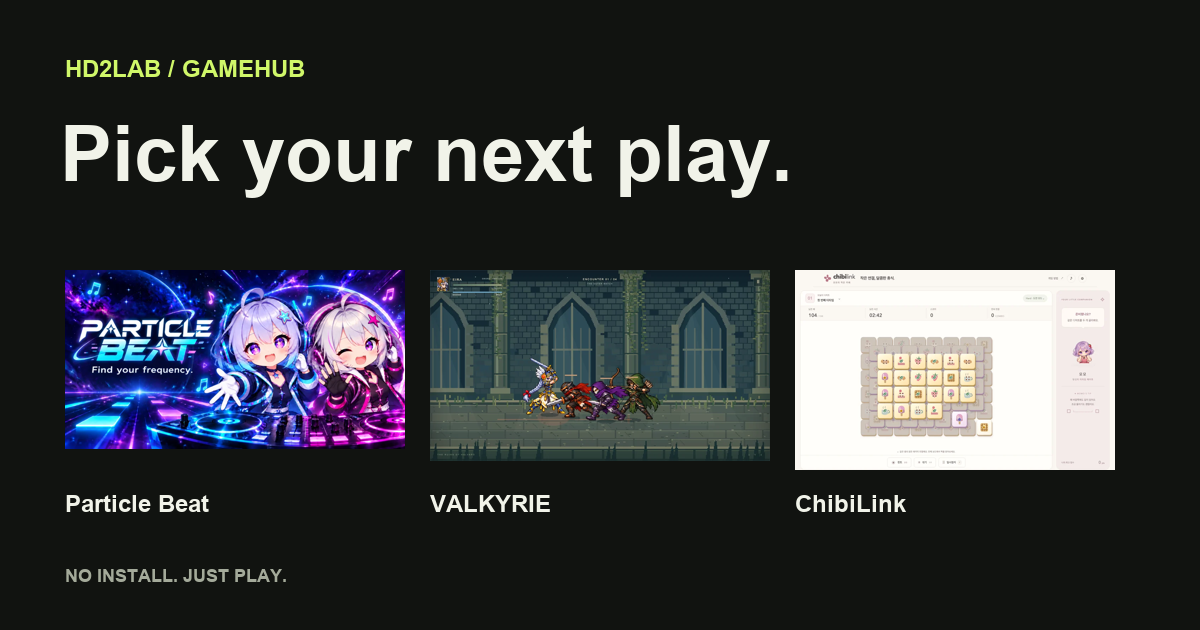
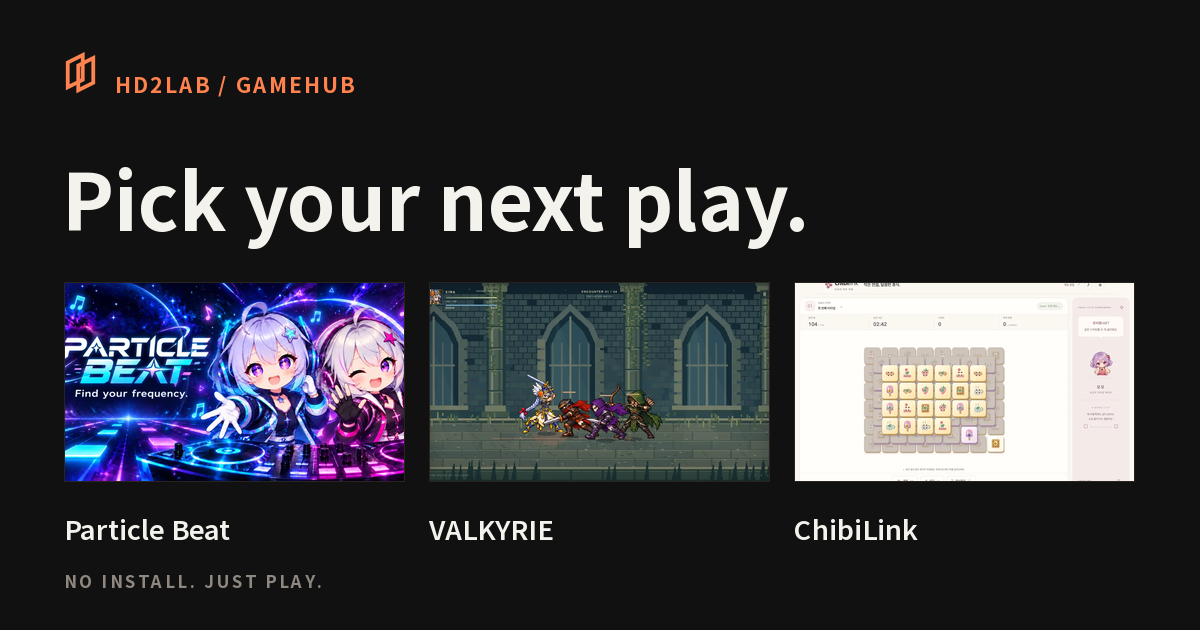
feat(brand): HD2Lab 오렌지 테마와 듀얼 스큐 마크로 브랜딩 통일
- --lime 라임 그린을 --accent(#ff824f) HD2Lab 오렌지로 교체하고 배경을 #101110으로 정렬
- 헤더 로고를 HD2Lab 듀얼 스큐 마크(.mark)로, 브랜드 텍스트를 HD2Lab / GameHub로 변경
- 글로벌 내비게이션에 ApplicationHub, TechnicalHub, Web-HQ 링크 정리
- HD2Lab 표준 파비콘 세트(SVG/ICO/32/180) 동기화 및 1200x630 공유 이미지 재생성
- 브랜드 헤더와 허브 간 링크를 확인하는 브라우저 검증 추가

diff --git a/css/style.css b/css/style.css
@@ -1,12 +1,12 @@
 @font-face{font-family:Hub;src:local("Arial");font-display:swap}
-:root{color-scheme:dark;--bg:#111310;--panel:#1a1c18;--line:#30332b;--ink:#f1f3e9;--muted:#a4aa9a;--lime:#d0f769;font-family:Hub,Arial,"Apple SD Gothic Neo","Malgun Gothic",sans-serif;background:var(--bg);color:var(--ink);font-synthesis:none}
-*{box-sizing:border-box}html{scroll-behavior:smooth;scroll-padding-top:28px}body{margin:0}a{color:inherit;text-decoration:none}button{font:inherit}a,button{-webkit-tap-highlight-color:transparent}a:focus-visible,button:focus-visible{outline:3px solid var(--lime);outline-offset:5px}button{cursor:pointer}img{display:block;max-width:100%}.shell{width:min(1280px,calc(100% - 96px));margin-inline:auto}.skip-link{position:fixed;z-index:20;top:10px;left:10px;padding:12px;background:var(--lime);color:#111;transform:translateY(-200%)}.skip-link:focus{transform:none}
-.site-header{min-height:100px;display:flex;align-items:center;justify-content:space-between;border-bottom:1px solid var(--line);gap:20px}.brand{display:flex;align-items:center;gap:12px;font-size:28px;font-weight:800;letter-spacing:-1px}.brand-period,.lime{color:var(--lime)}.brand-icon{width:35px;fill:var(--lime)}.icon-ink{stroke:#171a10;stroke-width:2.7;fill:none}.icon-dot{fill:#171a10}.site-header nav{display:flex;gap:34px;align-items:center;font-size:13px;font-weight:600}.site-header nav a{padding-block:16px}.nav-active{color:var(--lime)}.web-hq-link{color:#bfc4b6}.web-hq-link span{margin-left:6px}.hero{display:grid;grid-template-columns:1.15fr 1fr;gap:36px;align-items:center;min-height:570px;padding-block:66px 70px}.eyebrow{font-size:11px;letter-spacing:2.2px;font-weight:700;display:flex;align-items:center;gap:10px;margin:0 0 22px}.status-dot{width:7px;height:7px;border-radius:50%;background:var(--lime);box-shadow:0 0 12px #d0f73c55}.muted{color:var(--muted)}h1{font-size:clamp(68px,7.4vw,106px);line-height:.98;letter-spacing:-6px;margin:0 0 29px;font-weight:800}.play-word{color:var(--lime);position:relative;display:inline-block}.play-word svg{position:absolute;left:-2%;width:104%;height:12px;bottom:-10px;fill:none;stroke:var(--lime);stroke-width:4;stroke-linecap:round}.hero-description{color:#b7bdad;font-size:15px;line-height:1.9;margin:0 0 26px}.hero-action{display:inline-flex;align-items:center;gap:42px;background:var(--lime);color:#172009;padding:16px 22px;font-size:14px;font-weight:700;border-radius:6px;min-height:50px;transition:background .15s}.hero-action:hover{background:#e2ff9d}.hero-action span{font-size:19px}.hero-notes{display:flex;gap:22px;font-size:11px;color:var(--muted);margin-top:20px}.hero-notes span+span:before{content:"";display:inline-block;width:3px;height:3px;border-radius:50%;background:#778366;vertical-align:middle;margin-right:22px}
-.hero-art{height:350px;position:relative;display:grid;place-items:center;isolation:isolate;background:radial-gradient(ellipse,#b2d26b0b,transparent 65%)}.orbit{position:absolute;width:90%;height:82%;border:1px solid #626d3833;border-radius:50%;transform:rotate(-24deg);z-index:-1}.orbit-two{width:102%;height:54%;transform:rotate(32deg)}.controller{width:340px;max-width:90%;background:linear-gradient(145deg,#31382b,#20251b);border:1px solid #6d7951;border-radius:34px 34px 64px 64px;transform:rotate(-12deg);box-shadow:0 18px 0 #161c12,0 19px 0 #53613d,0 40px 40px #0008,inset 0 2px 0 #88996d55;padding:22px 27px;position:relative}.controller-top{display:flex;justify-content:space-between;align-items:center;font-size:11px;font-weight:700;color:#c9d9a6;letter-spacing:3px}.controller-top i{background:var(--lime);width:6px;height:6px;border-radius:50%;box-shadow:0 0 8px #d0f769}.controller-face{display:flex;justify-content:space-between;align-items:center;height:118px}.dpad{position:relative;width:74px;height:74px;filter:drop-shadow(0 5px 2px #0006)}.dpad i{position:absolute;background:#b9ce8a;border:1px solid #d7e9b5;border-radius:4px;width:26px;height:74px;left:24px}.dpad i+i{transform:rotate(90deg)}.dpad:after{content:"";position:absolute;width:15px;height:15px;background:#9aac77;border-radius:50%;top:30px;left:30px}.controller-center{display:flex;gap:8px;align-self:flex-end;margin-bottom:20px}.controller-center span{height:7px;width:20px;border-radius:6px;background:#11170e;box-shadow:0 1px 0 #76825b}.controller-buttons{position:relative;width:82px;height:82px}.controller-buttons i{position:absolute;width:27px;height:27px;border-radius:50%;background:var(--lime);box-shadow:0 4px 0 #7a953d,inset 0 2px 0 #edffc4}.controller-buttons i:nth-child(1){left:27px;top:0}.controller-buttons i:nth-child(2){left:54px;top:27px;background:#e5efcc}.controller-buttons i:nth-child(3){left:27px;top:54px}.controller-buttons i:nth-child(4){left:0;top:27px;background:#839b5b}.controller-foot{display:flex;justify-content:space-between;margin-top:10px;font-size:7px;letter-spacing:1.5px;color:#acbb91}.art-label{position:absolute;font-size:9px;letter-spacing:2px;color:#a5b78c;padding:10px 13px;background:#1b2117;border:1px solid #465535;border-radius:4px}.label-top{top:10px;right:4px;transform:rotate(7deg)}.label-bottom{bottom:5px;left:20px;transform:rotate(-5deg)}.art-cross{position:absolute;font-size:25px;font-weight:200;color:#8da75a}.cross-one{left:15px;top:38px}.cross-two{bottom:32px;right:10px}
-.collection{padding-top:20px;scroll-margin-top:24px}.section-heading{display:flex;justify-content:space-between;align-items:flex-end;margin-bottom:26px;gap:20px}.section-heading .eyebrow{margin-bottom:12px}h2{font-size:27px;letter-spacing:-1px;margin:0;line-height:1.4}.count{display:inline-block;font-family:monospace;font-size:12px;vertical-align:middle;letter-spacing:0;border:1px solid #465038;border-radius:5px;padding:2px 7px;color:var(--lime);margin-left:14px}.count[hidden]{display:none}.section-note{font-size:12px;color:var(--muted);margin:0 0 5px}.game-grid{display:grid;grid-template-columns:repeat(3,minmax(0,1fr));gap:22px}.game-card{min-width:0;background:var(--panel);border:1px solid var(--line);border-radius:12px;overflow:hidden;display:flex;flex-direction:column;transition:border-color .18s,transform .18s}.game-card:hover{border-color:#5d6a47;transform:translateY(-4px)}.card-image{aspect-ratio:1.8;position:relative;overflow:hidden;background:#242a1d}.card-image img{width:100%;height:100%;object-fit:cover;transition:transform .3s}.game-card:hover .card-image img{transform:scale(1.035)}.image-caption{position:absolute;right:9px;bottom:8px;background:#080b10cc;padding:4px 7px;border-radius:4px;font-size:9px;color:#e0e5d7}.card-body{padding:22px;display:flex;flex-direction:column;flex:1}.card-kicker{display:flex;align-items:center;justify-content:space-between;color:var(--accent,var(--lime));font-size:10px;letter-spacing:1.5px;font-weight:700;margin-bottom:13px}.card-index{font-family:monospace;color:#a2aa94;font-size:11px}.card-title{font-size:26px;letter-spacing:-.8px;margin:0 0 6px;overflow-wrap:anywhere}.card-subtitle{font-size:11px;color:var(--muted);margin:0 0 17px;min-height:14px}.card-description{font-size:13px;line-height:1.8;color:#b4bcaa;margin:0 0 20px;flex:1}.card-meta{display:flex;flex-wrap:wrap;gap:7px;margin-bottom:20px}.meta-pill{font-size:10px;color:#c0c8b6;border:1px solid #394031;padding:5px 8px;border-radius:4px}.orientation{color:#dec88c}.play-link{display:flex;align-items:center;justify-content:space-between;width:100%;min-height:47px;padding:13px 16px;background:#282e21;border:1px solid #465237;border-radius:6px;font-size:13px;font-weight:700;color:#e2ebd4;transition:background .15s}.play-link:hover{background:var(--lime);color:#18200e;border-color:var(--lime)}.play-link span{font-size:19px}.unavailable{color:#a7af9a;background:#272b23;justify-content:center;cursor:default}.collection-bottom{display:flex;justify-content:space-between;margin-top:20px;font-size:11px;color:#9da590;gap:20px}.tiny-dot{display:inline-block;height:5px;width:5px;background:var(--lime);border-radius:50%;vertical-align:middle;margin-right:7px}
-.play-guide{display:grid;grid-template-columns:1.05fr 1fr 1fr 1fr;gap:24px;border-top:1px solid var(--line);border-bottom:1px solid var(--line);margin-top:66px;padding-block:34px}.play-guide .eyebrow{font-size:9px;margin-bottom:11px;letter-spacing:1.5px}.play-guide h2{font-size:21px}.guide-item{display:flex;gap:12px;padding-top:4px}.guide-number{font-family:monospace;font-size:12px;color:#bac99e;margin-top:3px}.guide-item h3{font-size:13px;margin:0 0 10px;font-weight:600}.guide-item p{font-size:11px;color:#a0a994;margin:0;line-height:1.8;max-width:190px}.site-footer{display:flex;align-items:center;justify-content:space-between;padding-block:32px 38px;gap:20px}.footer-brand{font-size:14px;font-weight:700}.site-footer p{font-size:10px;color:#919b83;margin-bottom:0}.site-footer>a{font-size:11px;color:#aab39c;min-height:44px;display:flex;align-items:center;gap:14px}.load-message{grid-column:1/-1;padding:40px 20px;background:var(--panel);border:1px solid var(--line);border-radius:10px;color:var(--muted)}.load-message button{margin:16px 0 0;display:block;background:var(--lime);border:0;border-radius:4px;color:#172009;padding:12px 20px;min-height:44px}
+:root{color-scheme:dark;--bg:#101110;--panel:#1b1d1a;--line:#343630;--ink:#f3f2ec;--muted:#aaa9a1;--accent:#ff824f;font-family:Hub,Arial,"Apple SD Gothic Neo","Malgun Gothic",sans-serif;background:var(--bg);color:var(--ink);font-synthesis:none}
+*{box-sizing:border-box}html{scroll-behavior:smooth;scroll-padding-top:28px}body{margin:0}a{color:inherit;text-decoration:none}button{font:inherit}a,button{-webkit-tap-highlight-color:transparent}a:focus-visible,button:focus-visible{outline:3px solid var(--accent);outline-offset:5px}button{cursor:pointer}img{display:block;max-width:100%}.shell{width:min(1280px,calc(100% - 96px));margin-inline:auto}.skip-link{position:fixed;z-index:20;top:10px;left:10px;padding:12px;background:var(--accent);color:#111;transform:translateY(-200%)}.skip-link:focus{transform:none}
+.site-header{min-height:100px;display:flex;align-items:center;justify-content:space-between;border-bottom:1px solid var(--line);gap:20px}.brand{display:flex;align-items:center;gap:12px;font-weight:800;letter-spacing:-1px;white-space:nowrap;flex:none}.brand-name{font-size:25px;letter-spacing:-1.5px}.brand em{font-size:12px;font-style:normal;font-weight:400;letter-spacing:0;color:var(--muted);border-left:1px solid #45473f;padding-left:13px}.mark{display:inline-block;width:17px;height:22px;border:3px solid var(--accent);transform:skewY(-23deg);position:relative;flex-shrink:0}.mark:after{content:'';position:absolute;inset:4px -8px -7px 4px;border:2px solid var(--accent)}.accent{color:var(--accent)}.site-header nav{display:flex;gap:26px;align-items:center;font-size:12px;font-weight:600}.site-header nav a{padding-block:16px;white-space:nowrap}.nav-active{color:var(--accent)}.hub-link,.web-hq-link{color:#cbc7c0}.hub-link:hover,.web-hq-link:hover{color:var(--accent)}.hub-link span,.web-hq-link span{margin-left:5px;color:#8f8880}.hero{display:grid;grid-template-columns:1.15fr 1fr;gap:36px;align-items:center;min-height:570px;padding-block:66px 70px}.eyebrow{font-size:11px;letter-spacing:2.2px;font-weight:700;display:flex;align-items:center;gap:10px;margin:0 0 22px}.status-dot{width:7px;height:7px;border-radius:50%;background:var(--accent);box-shadow:0 0 12px #ff824f55}.muted{color:var(--muted)}h1{font-size:clamp(68px,7.4vw,106px);line-height:.98;letter-spacing:-6px;margin:0 0 29px;font-weight:800}.play-word{color:var(--accent);position:relative;display:inline-block}.play-word svg{position:absolute;left:-2%;width:104%;height:12px;bottom:-10px;fill:none;stroke:var(--accent);stroke-width:4;stroke-linecap:round}.hero-description{color:#c6c2bb;font-size:15px;line-height:1.9;margin:0 0 26px}.hero-action{display:inline-flex;align-items:center;gap:42px;background:var(--accent);color:#191714;padding:16px 22px;font-size:14px;font-weight:700;border-radius:6px;min-height:50px;transition:background .15s}.hero-action:hover{background:#ffa47b}.hero-action span{font-size:19px}.hero-notes{display:flex;gap:22px;font-size:11px;color:var(--muted);margin-top:20px}.hero-notes span+span:before{content:"";display:inline-block;width:3px;height:3px;border-radius:50%;background:#7f736a;vertical-align:middle;margin-right:22px}
+.hero-art{height:350px;position:relative;display:grid;place-items:center;isolation:isolate;background:radial-gradient(ellipse,#ff824f0b,transparent 65%)}.orbit{position:absolute;width:90%;height:82%;border:1px solid #6b463033;border-radius:50%;transform:rotate(-24deg);z-index:-1}.orbit-two{width:102%;height:54%;transform:rotate(32deg)}.controller{width:340px;max-width:90%;background:linear-gradient(145deg,#3a2b23,#241a15);border:1px solid #8a5b41;border-radius:34px 34px 64px 64px;transform:rotate(-12deg);box-shadow:0 18px 0 #161c12,0 19px 0 #7a4a2f,0 40px 40px #0008,inset 0 2px 0 #b98a6b55;padding:22px 27px;position:relative}.controller-top{display:flex;justify-content:space-between;align-items:center;font-size:11px;font-weight:700;color:#e8c2a8;letter-spacing:3px}.controller-top i{background:var(--accent);width:6px;height:6px;border-radius:50%;box-shadow:0 0 8px #ff824f}.controller-face{display:flex;justify-content:space-between;align-items:center;height:118px}.dpad{position:relative;width:74px;height:74px;filter:drop-shadow(0 5px 2px #0006)}.dpad i{position:absolute;background:#e0a887;border:1px solid #f5cfb8;border-radius:4px;width:26px;height:74px;left:24px}.dpad i+i{transform:rotate(90deg)}.dpad:after{content:"";position:absolute;width:15px;height:15px;background:#c08a66;border-radius:50%;top:30px;left:30px}.controller-center{display:flex;gap:8px;align-self:flex-end;margin-bottom:20px}.controller-center span{height:7px;width:20px;border-radius:6px;background:#1a110c;box-shadow:0 1px 0 #8f5f42}.controller-buttons{position:relative;width:82px;height:82px}.controller-buttons i{position:absolute;width:27px;height:27px;border-radius:50%;background:var(--accent);box-shadow:0 4px 0 #a8542a,inset 0 2px 0 #ffe2d1}.controller-buttons i:nth-child(1){left:27px;top:0}.controller-buttons i:nth-child(2){left:54px;top:27px;background:#f4ddd0}.controller-buttons i:nth-child(3){left:27px;top:54px}.controller-buttons i:nth-child(4){left:0;top:27px;background:#945b3d}.controller-foot{display:flex;justify-content:space-between;margin-top:10px;font-size:7px;letter-spacing:1.5px;color:#cfa891}.art-label{position:absolute;font-size:9px;letter-spacing:2px;color:#d3a88d;padding:10px 13px;background:#241812;border:1px solid #5f4231;border-radius:4px}.label-top{top:10px;right:4px;transform:rotate(7deg)}.label-bottom{bottom:5px;left:20px;transform:rotate(-5deg)}.art-cross{position:absolute;font-size:25px;font-weight:200;color:#cf8256}.cross-one{left:15px;top:38px}.cross-two{bottom:32px;right:10px}
+.collection{padding-top:20px;scroll-margin-top:24px}.section-heading{display:flex;justify-content:space-between;align-items:flex-end;margin-bottom:26px;gap:20px}.section-heading .eyebrow{margin-bottom:12px}h2{font-size:27px;letter-spacing:-1px;margin:0;line-height:1.4}.count{display:inline-block;font-family:monospace;font-size:12px;vertical-align:middle;letter-spacing:0;border:1px solid #4c4038;border-radius:5px;padding:2px 7px;color:var(--accent);margin-left:14px}.count[hidden]{display:none}.section-note{font-size:12px;color:var(--muted);margin:0 0 5px}.game-grid{display:grid;grid-template-columns:repeat(3,minmax(0,1fr));gap:22px}.game-card{min-width:0;background:var(--panel);border:1px solid var(--line);border-radius:12px;overflow:hidden;display:flex;flex-direction:column;transition:border-color .18s,transform .18s}.game-card:hover{border-color:#6b4c3b;transform:translateY(-4px)}.card-image{aspect-ratio:1.8;position:relative;overflow:hidden;background:#242a1d}.card-image img{width:100%;height:100%;object-fit:cover;transition:transform .3s}.game-card:hover .card-image img{transform:scale(1.035)}.image-caption{position:absolute;right:9px;bottom:8px;background:#080b10cc;padding:4px 7px;border-radius:4px;font-size:9px;color:#ece7e2}.card-body{padding:22px;display:flex;flex-direction:column;flex:1}.card-kicker{display:flex;align-items:center;justify-content:space-between;color:var(--accent,var(--accent));font-size:10px;letter-spacing:1.5px;font-weight:700;margin-bottom:13px}.card-index{font-family:monospace;color:#aaa39c;font-size:11px}.card-title{font-size:26px;letter-spacing:-.8px;margin:0 0 6px;overflow-wrap:anywhere}.card-subtitle{font-size:11px;color:var(--muted);margin:0 0 17px;min-height:14px}.card-description{font-size:13px;line-height:1.8;color:#c2bdb5;margin:0 0 20px;flex:1}.card-meta{display:flex;flex-wrap:wrap;gap:7px;margin-bottom:20px}.meta-pill{font-size:10px;color:#c7c1ba;border:1px solid #3f3833;padding:5px 8px;border-radius:4px}.orientation{color:#dec88c}.play-link{display:flex;align-items:center;justify-content:space-between;width:100%;min-height:47px;padding:13px 16px;background:#242220;border:1px solid #453d36;border-radius:6px;font-size:13px;font-weight:700;color:#f0e9e3;transition:background .15s,border-color .15s,color .15s}.play-link:hover{background:var(--accent);color:#191714;border-color:var(--accent)}.play-link span{font-size:19px}.unavailable{color:#b0aaa3;background:#242220;border-color:#3a332e;justify-content:center;cursor:default}.collection-bottom{display:flex;justify-content:space-between;margin-top:20px;font-size:11px;color:#a49d96;gap:20px}.tiny-dot{display:inline-block;height:5px;width:5px;background:var(--accent);border-radius:50%;vertical-align:middle;margin-right:7px}
+.play-guide{display:grid;grid-template-columns:1.05fr 1fr 1fr 1fr;gap:24px;border-top:1px solid var(--line);border-bottom:1px solid var(--line);margin-top:66px;padding-block:34px}.play-guide .eyebrow{font-size:9px;margin-bottom:11px;letter-spacing:1.5px}.play-guide h2{font-size:21px}.guide-item{display:flex;gap:12px;padding-top:4px}.guide-number{font-family:monospace;font-size:12px;color:#bac99e;margin-top:3px}.guide-item h3{font-size:13px;margin:0 0 10px;font-weight:600}.guide-item p{font-size:11px;color:#a0a994;margin:0;line-height:1.8;max-width:190px}.site-footer{display:flex;align-items:center;justify-content:space-between;padding-block:32px 38px;gap:20px}.footer-brand{font-size:14px;font-weight:700}.site-footer p{font-size:10px;color:#98918a;margin-bottom:0}.site-footer>a{font-size:11px;color:#b1aaa3;min-height:44px;display:flex;align-items:center;gap:14px}.load-message{grid-column:1/-1;padding:40px 20px;background:var(--panel);border:1px solid var(--line);border-radius:10px;color:var(--muted)}.load-message button{margin:16px 0 0;display:block;background:var(--accent);border:0;border-radius:4px;color:#191714;padding:12px 20px;min-height:44px}
 @media(min-width:1500px){.hero{min-height:610px}.hero-art{height:390px}.controller{width:370px}}
 @media(max-width:1050px){.shell{width:calc(100% - 56px)}.hero{gap:15px}h1{font-size:80px}.controller{width:290px;padding:19px 23px}.hero-art{height:310px}.card-body{padding:17px}.card-title{font-size:23px}.game-grid{gap:15px}.play-guide{grid-template-columns:1fr 1fr;row-gap:28px}.section-note{display:none}}
-@media(max-width:760px){.shell{width:calc(100% - 40px)}.site-header{min-height:80px}.brand{font-size:24px}.brand-icon{width:29px}.site-header nav{gap:18px;font-size:11px}.hero{grid-template-columns:1fr;padding-block:48px 40px;min-height:unset;position:relative}.hero-copy{position:relative;z-index:1}h1{font-size:clamp(65px,13vw,91px);letter-spacing:-4px}.hero-art{display:none}.hero-description{font-size:14px}.hero-notes{margin-top:17px}.hero .eyebrow{font-size:10px}.collection{padding-top:15px}.game-grid{grid-template-columns:1fr;gap:24px}.section-heading{margin-bottom:22px}h2{font-size:23px}.card-image{aspect-ratio:1.9}.card-body{padding:23px}.card-title{font-size:29px}.card-subtitle{margin-bottom:13px}.card-description{font-size:14px;margin-bottom:17px}.card-meta{margin-bottom:19px}.meta-pill{font-size:11px}.play-link{min-height:50px;font-size:14px}.card-kicker{font-size:11px}.collection-bottom{font-size:10px}.collection-bottom>span:last-child{display:none}.play-guide{margin-top:40px;grid-template-columns:1fr;padding-block:30px;gap:23px}.guide-item{gap:16px}.guide-item h3{font-size:14px;margin-bottom:5px}.guide-item p{font-size:12px;max-width:none}.site-footer{align-items:flex-start;padding-top:27px}.site-footer>a{font-size:10px}.count{margin-left:10px}.game-card:hover{transform:none}}
-@media(max-width:370px){.shell{width:calc(100% - 32px)}.site-header nav{gap:12px}.brand{gap:7px;font-size:21px}.brand-icon{width:25px}.nav-active{font-size:10px}h2{font-size:21px}}
+@media(max-width:760px){.shell{width:calc(100% - 40px)}.site-header{min-height:0;flex-wrap:wrap;gap:0;padding-block:14px 0}.brand{min-height:42px;gap:10px}.brand-name{font-size:22px}.brand em{display:none}.site-header nav{order:3;width:100%;justify-content:space-between;gap:14px;padding-block:12px;font-size:11px;font-weight:600;overflow-x:auto;scrollbar-width:none}.site-header nav::-webkit-scrollbar{display:none}.site-header nav a{padding-block:4px}.hero{grid-template-columns:1fr;padding-block:48px 40px;min-height:unset;position:relative}.hero-copy{position:relative;z-index:1}h1{font-size:clamp(65px,13vw,91px);letter-spacing:-4px}.hero-art{display:none}.hero-description{font-size:14px}.hero-notes{margin-top:17px}.hero .eyebrow{font-size:10px}.collection{padding-top:15px}.game-grid{grid-template-columns:1fr;gap:24px}.section-heading{margin-bottom:22px}h2{font-size:23px}.card-image{aspect-ratio:1.9}.card-body{padding:23px}.card-title{font-size:29px}.card-subtitle{margin-bottom:13px}.card-description{font-size:14px;margin-bottom:17px}.card-meta{margin-bottom:19px}.meta-pill{font-size:11px}.play-link{min-height:50px;font-size:14px}.card-kicker{font-size:11px}.collection-bottom{font-size:10px}.collection-bottom>span:last-child{display:none}.play-guide{margin-top:40px;grid-template-columns:1fr;padding-block:30px;gap:23px}.guide-item{gap:16px}.guide-item h3{font-size:14px;margin-bottom:5px}.guide-item p{font-size:12px;max-width:none}.site-footer{align-items:flex-start;padding-top:27px}.site-footer>a{font-size:10px}.count{margin-left:10px}.game-card:hover{transform:none}}
+@media(max-width:370px){.shell{width:calc(100% - 32px)}.site-header nav{gap:11px;font-size:10px}.brand{gap:8px}.brand-name{font-size:20px}.mark{width:14px;height:18px;border-width:2px}.mark:after{inset:3px -6px -5px 3px;border-width:2px}.nav-active{font-size:10px}h2{font-size:21px}}
 @media(prefers-reduced-motion:reduce){html{scroll-behavior:auto}*,*:before,*:after{transition:none!important;animation:none!important}.game-card:hover,.game-card:hover .card-image img{transform:none}}

diff --git a/index.html b/index.html
@@ -3,7 +3,7 @@
 <head>
   <meta charset="utf-8">
   <meta name="viewport" content="width=device-width, initial-scale=1">
-  <meta name="theme-color" content="#111310">
+  <meta name="theme-color" content="#101110">
   <title>GameHub — HD2Lab 플레이 아케이드</title>
   <meta name="description" content="리듬, 액션, 퍼즐. HD2Lab의 작은 게임 세계를 만나보세요. PC와 모바일 브라우저에서 바로 플레이하세요.">
   <link rel="canonical" href="https://hyangdan2.github.io/GameHub/">
@@ -14,6 +14,9 @@
   <meta property="og:image" content="https://hyangdan2.github.io/GameHub/assets/branding/share.png">
   <meta name="twitter:card" content="summary_large_image">
   <link rel="icon" href="./assets/branding/favicon.svg" type="image/svg+xml">
+  <link rel="icon" href="./assets/branding/favicon-32x32.png" sizes="32x32" type="image/png">
+  <link rel="apple-touch-icon" href="./assets/branding/apple-touch-icon.png" sizes="180x180">
+  <link rel="shortcut icon" href="./assets/branding/favicon.ico">
   <link rel="stylesheet" href="./css/style.css">
   <script type="module" src="./js/app.js"></script>
 </head>
@@ -21,19 +24,22 @@
   <a class="skip-link" href="#games">게임 목록으로 이동</a>
   <header class="site-header shell">
     <a class="brand" href="./" aria-label="GameHub 홈">
-      <svg class="brand-icon" viewBox="0 0 32 32" aria-hidden="true"><path d="M8 8h16l5 15c1 4-3 6-6 3l-4-4h-6l-4 4c-3 3-7 1-6-3Z"/><path class="icon-ink" d="M10 12v8m-4-4h8"/><circle class="icon-dot" cx="22" cy="14" r="1.5"/><circle class="icon-dot" cx="25" cy="18" r="1.5"/></svg>
-      <span>GameHub<span class="brand-period">.</span></span>
+      <span class="mark" aria-hidden="true"></span>
+      <span class="brand-name">HD2Lab</span>
+      <em>GameHub</em>
     </a>
     <nav aria-label="메인 메뉴">
       <a class="nav-active" href="#games">게임 둘러보기</a>
-      <a href="https://hyangdan2.github.io/" class="web-hq-link">Web-HQ <span aria-hidden="true">↗</span></a>
+      <a class="hub-link" href="https://hyangdan2.github.io/ApplicationHub/">ApplicationHub <span aria-hidden="true">↗</span></a>
+      <a class="hub-link" href="https://hyangdan2.github.io/TechnicalHub/">TechnicalHub <span aria-hidden="true">↗</span></a>
+      <a class="web-hq-link" href="https://hyangdan2.github.io/">Web-HQ <span aria-hidden="true">↗</span></a>
     </nav>
   </header>
   <main>
     <section class="hero shell" aria-labelledby="hero-title">
       <div class="hero-copy">
         <p class="eyebrow"><span class="status-dot"></span> THE HD2LAB ARCADE</p>
-        <h1 id="hero-title">Pick your<br>next <span class="play-word">play<svg viewBox="0 0 310 15" preserveAspectRatio="none" aria-hidden="true"><path d="M3 10Q150-2 306 7"/></svg></span><span class="lime">.</span></h1>
+        <h1 id="hero-title">Pick your<br>next <span class="play-word">play<svg viewBox="0 0 310 15" preserveAspectRatio="none" aria-hidden="true"><path d="M3 10Q150-2 306 7"/></svg></span><span class="accent">.</span></h1>
         <p class="hero-description">리듬을 타고, 모험을 떠나고, 퍼즐을 풀고.<br>오늘의 작은 즐거움, 여기서 시작하세요.</p>
         <a class="hero-action" href="#games">내 게임 찾기 <span aria-hidden="true">↓</span></a>
         <div class="hero-notes"><span>다운로드 없이 바로</span><span>PC &amp; 모바일</span></div>
@@ -70,6 +76,6 @@
       <div class="guide-item"><span class="guide-number">03</span><div><h3>기록은 이 브라우저에</h3><p>저장 지원 게임의 기록은 기기 간 공유되지 않아요.</p></div></div>
     </section>
   </main>
-  <footer class="site-footer shell"><div><span class="footer-brand">HD2Lab<span class="lime"> / </span>GameHub</span><p>A little playground for curious minds.</p></div><a href="https://github.com/HyangDan2">Made by HyangDan2 <span aria-hidden="true">↗</span></a></footer>
+  <footer class="site-footer shell"><div><span class="footer-brand">HD2Lab<span class="accent"> / </span>GameHub</span><p>A little playground for curious minds.</p></div><a href="https://github.com/HyangDan2">Made by HyangDan2 <span aria-hidden="true">↗</span></a></footer>
 </body>
 </html>

diff --git a/tests/browser/hub.spec.js b/tests/browser/hub.spec.js
@@ -75,3 +75,14 @@ test('touch can launch a game', async ({ browser }) => {
   await page.getByRole('link', { name: `${game.title} 플레이하기` }).tap();
   await expect(page).toHaveURL(game.playUrl); await context.close();
 });
+test('HD2Lab brand and cross-hub navigation are linked', async ({ page }) => {
+  await page.goto('./');
+  await expect(page.locator('.brand .brand-name')).toHaveText('HD2Lab');
+  await expect(page.locator('.brand em')).toHaveText('GameHub');
+  await expect(page.getByRole('link', { name: 'ApplicationHub' })).toHaveAttribute('href', 'https://hyangdan2.github.io/ApplicationHub/');
+  await expect(page.getByRole('link', { name: 'TechnicalHub' })).toHaveAttribute('href', 'https://hyangdan2.github.io/TechnicalHub/');
+  await expect(page.locator('.web-hq-link')).toHaveAttribute('href', 'https://hyangdan2.github.io/');
+  await expect(page.locator('link[rel="icon"][type="image/svg+xml"]')).toHaveAttribute('href', './assets/branding/favicon.svg');
+  await expect(page.locator('link[rel="apple-touch-icon"]')).toHaveAttribute('href', './assets/branding/apple-touch-icon.png');
+  await expect(page.locator('.mark')).toHaveCount(1);
+});

diff --git a/docs/CHANGELOG.md b/docs/CHANGELOG.md
@@ -1,5 +1,13 @@
 # Changelog
 
+## 2026-11-10 — HD2Lab brand alignment
+
+- Switched the palette from lime green to the HD2Lab signature orange (`--accent: #ff824f`) on the `#101110` ground.
+- Replaced the gamepad logo with the HD2Lab dual-skew mark and set the header brand to `HD2Lab / GameHub`.
+- Added ApplicationHub, TechnicalHub, and Web-HQ links to the global navigation.
+- Synced the standard HD2Lab favicon set (SVG, ICO, 32 px, 180 px Apple touch icon) and regenerated the 1200×630 share image.
+- Added a browser check that covers the brand header, cross-hub links, and icon links.
+
 ## 2026-11-07 — Four-game deployment repair
 
 - Updated browser checks to derive visible card counts from catalog status and select game destinations by stable ID, restoring validation after VALKYRIE EIRA joined the catalog.
